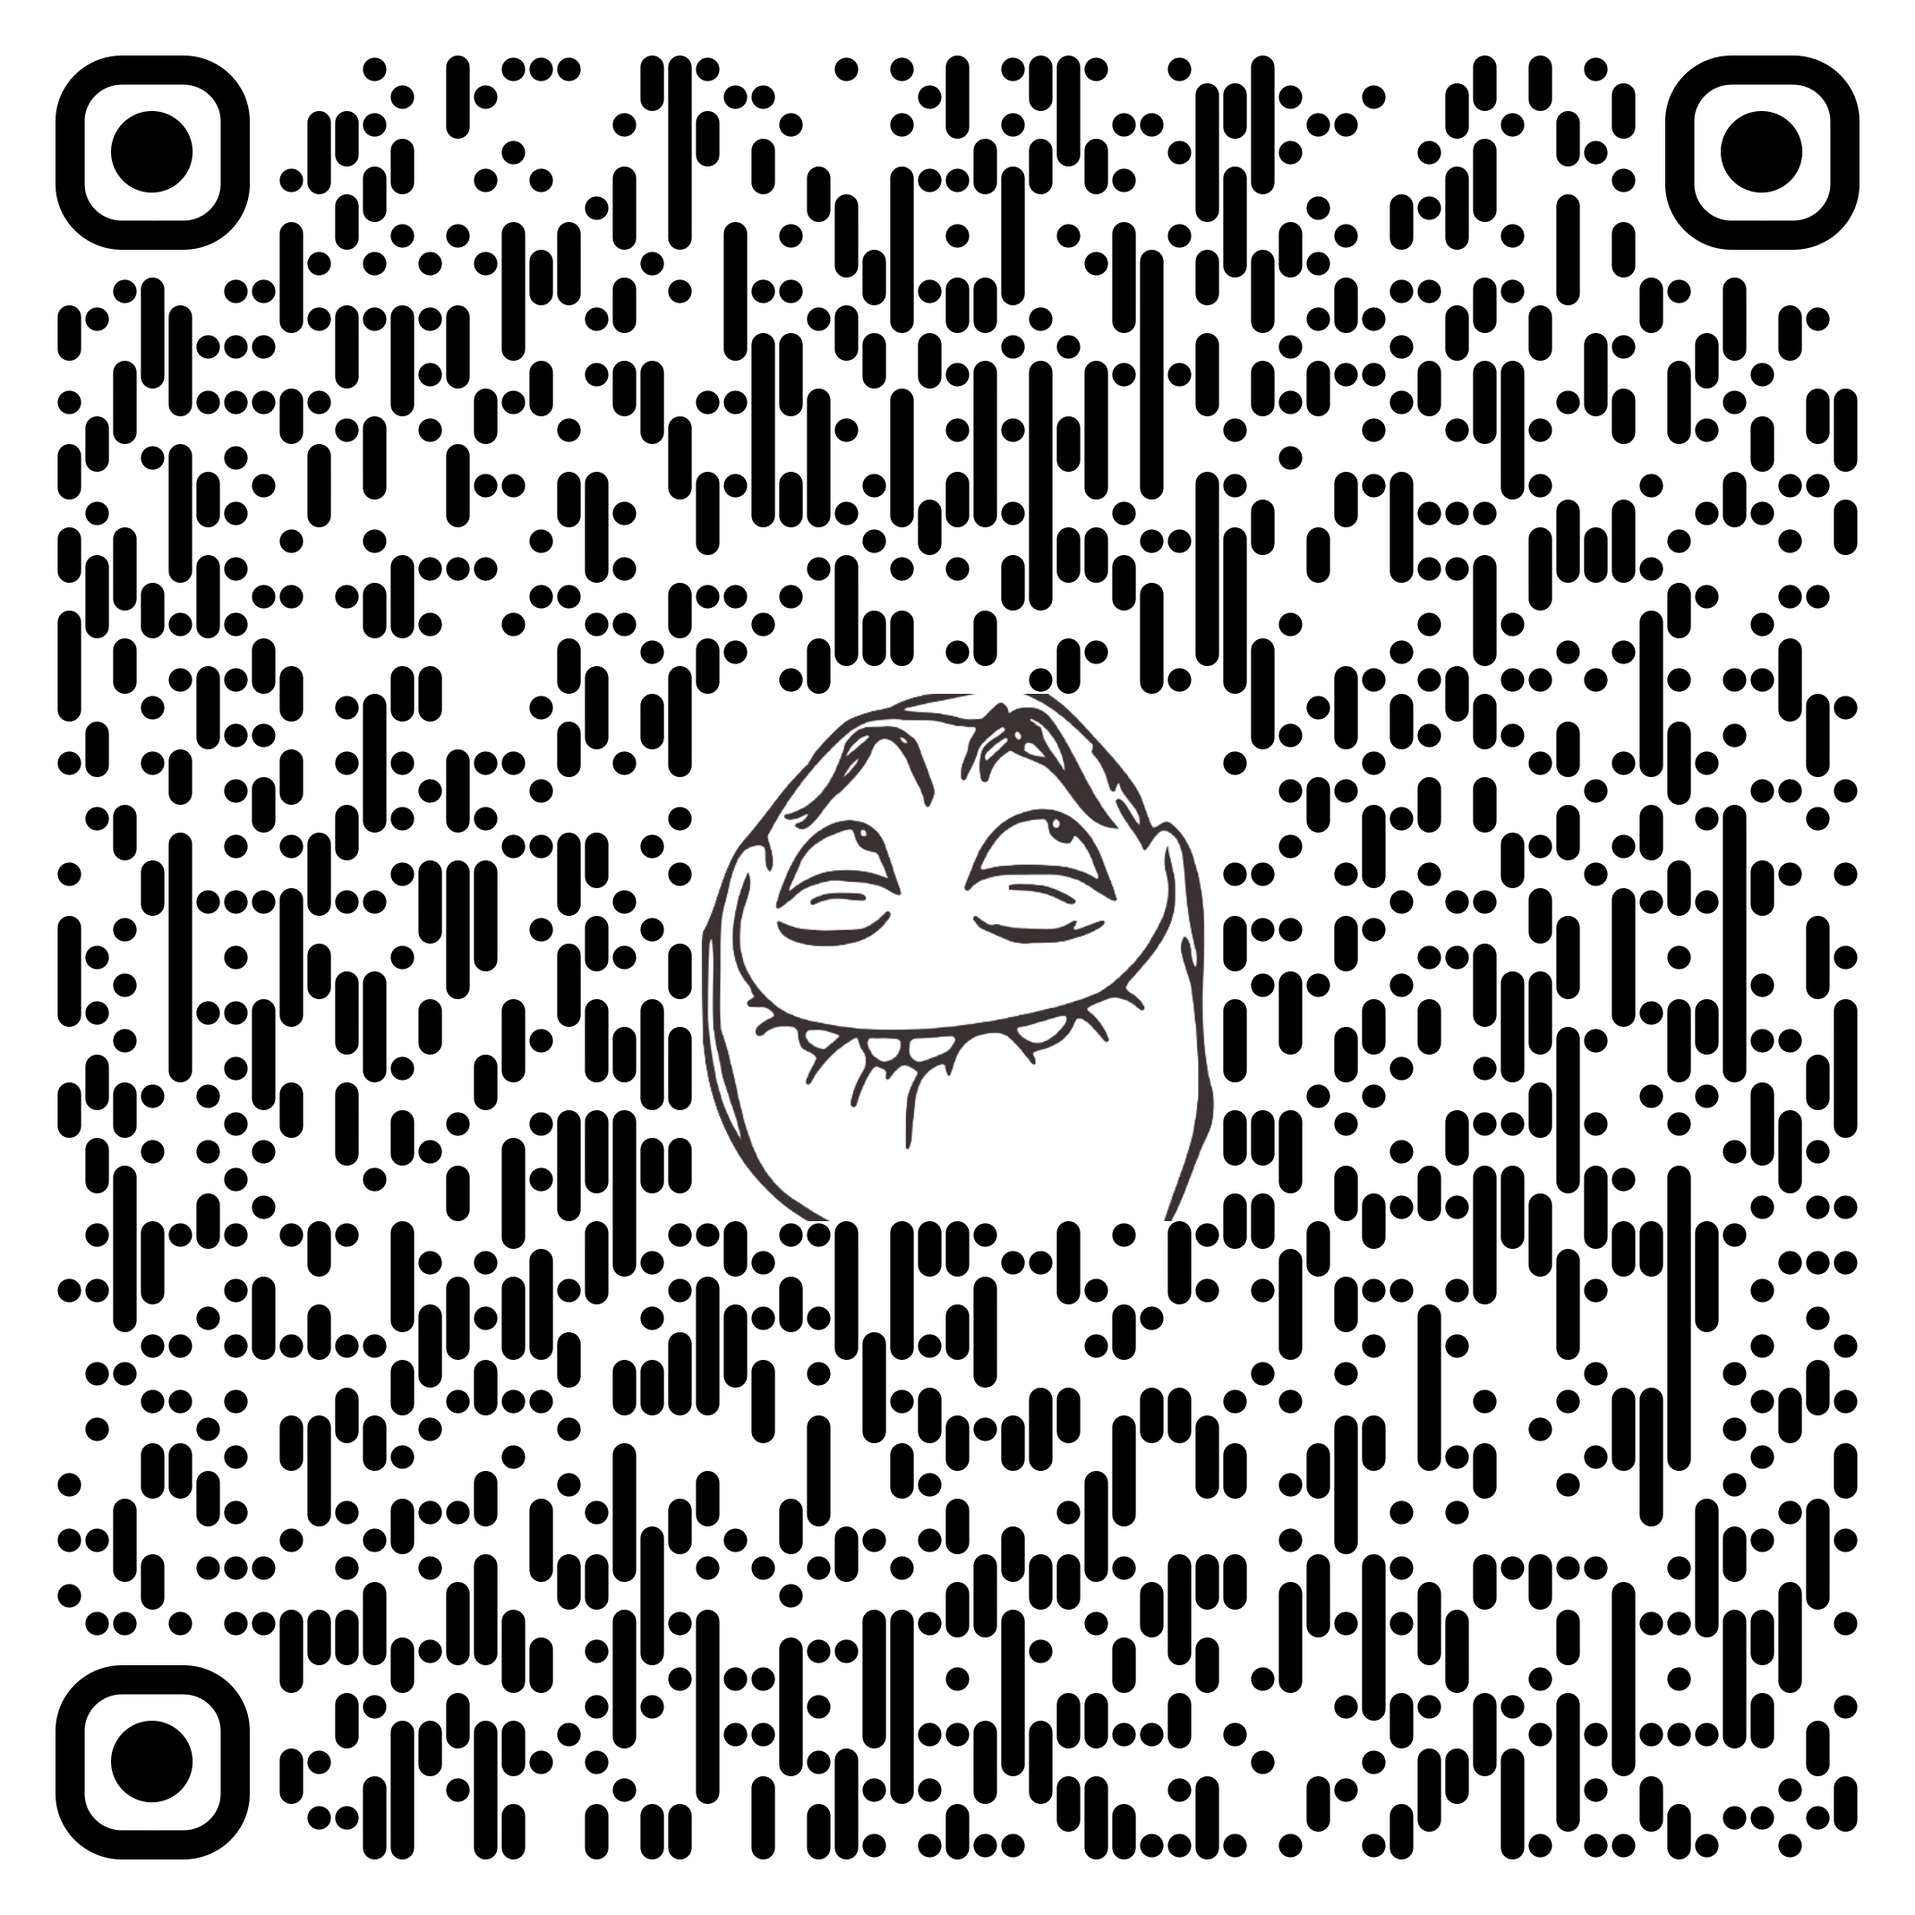
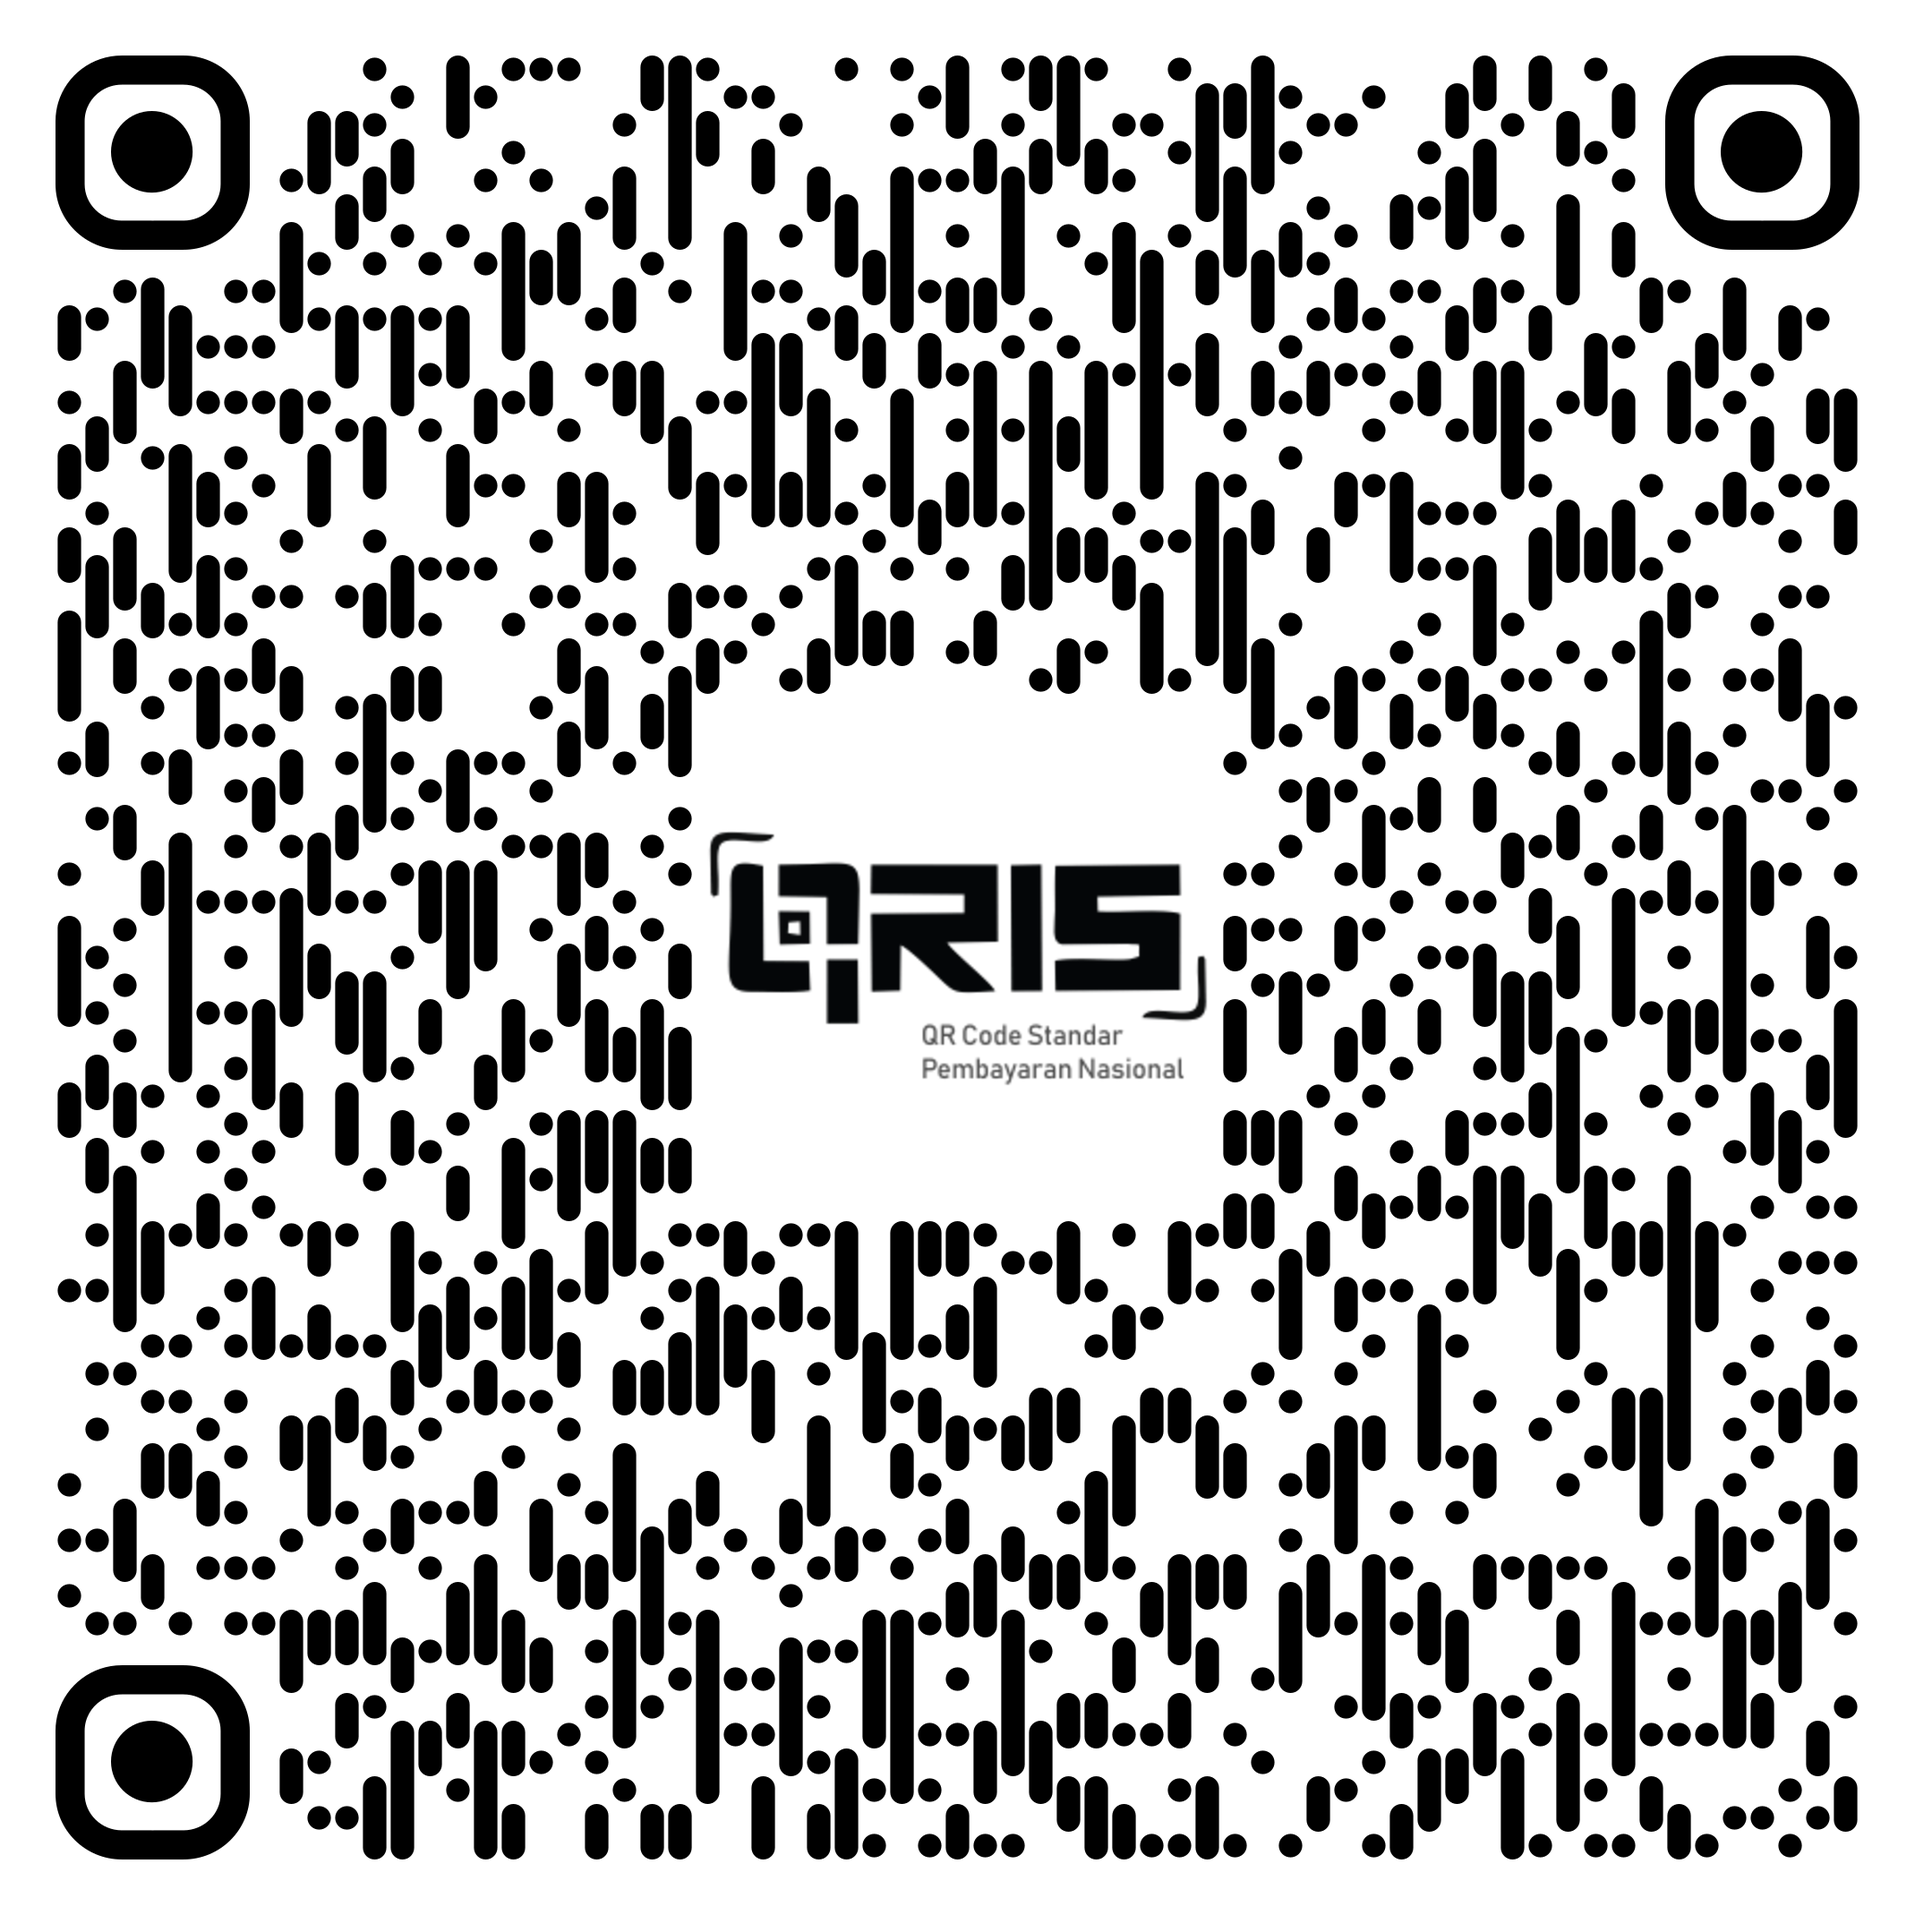
HMM

Changed region(s): [[0.3394, 0.3394, 0.648, 0.6171], [0.5863, 0.6171, 0.6171, 0.648], [0.4011, 0.6171, 0.432, 0.648]]

diff --git a/README.md b/README.md
@@ -6,5 +6,8 @@
 
 - Download link : <a href="https://github.com/MATORINET/MIRAEASSET-MACOS/releases/"><img width="185" alt="KLIK"></a>
 
-Donasi QRIS :
-- <img src="https://github.com/MATORINET/MIRAEASSET-MACOS/blob/main/matori.net.png" width=300 height=300>
+Donate :
+
+<a href="https://www.buymeacoffee.com/matori"><img src="https://img.buymeacoffee.com/button-api/?text=Buy me a coffee&emoji=&slug=matori&button_colour=FFDD00&font_colour=000000&font_family=Cookie&outline_colour=000000&coffee_colour=ffffff"></a>
+
+- <img src="https://github.com/MATORINET/MIRAEASSET-MACOS/blob/main/donasi/QRIS.png" width=300 height=300>
